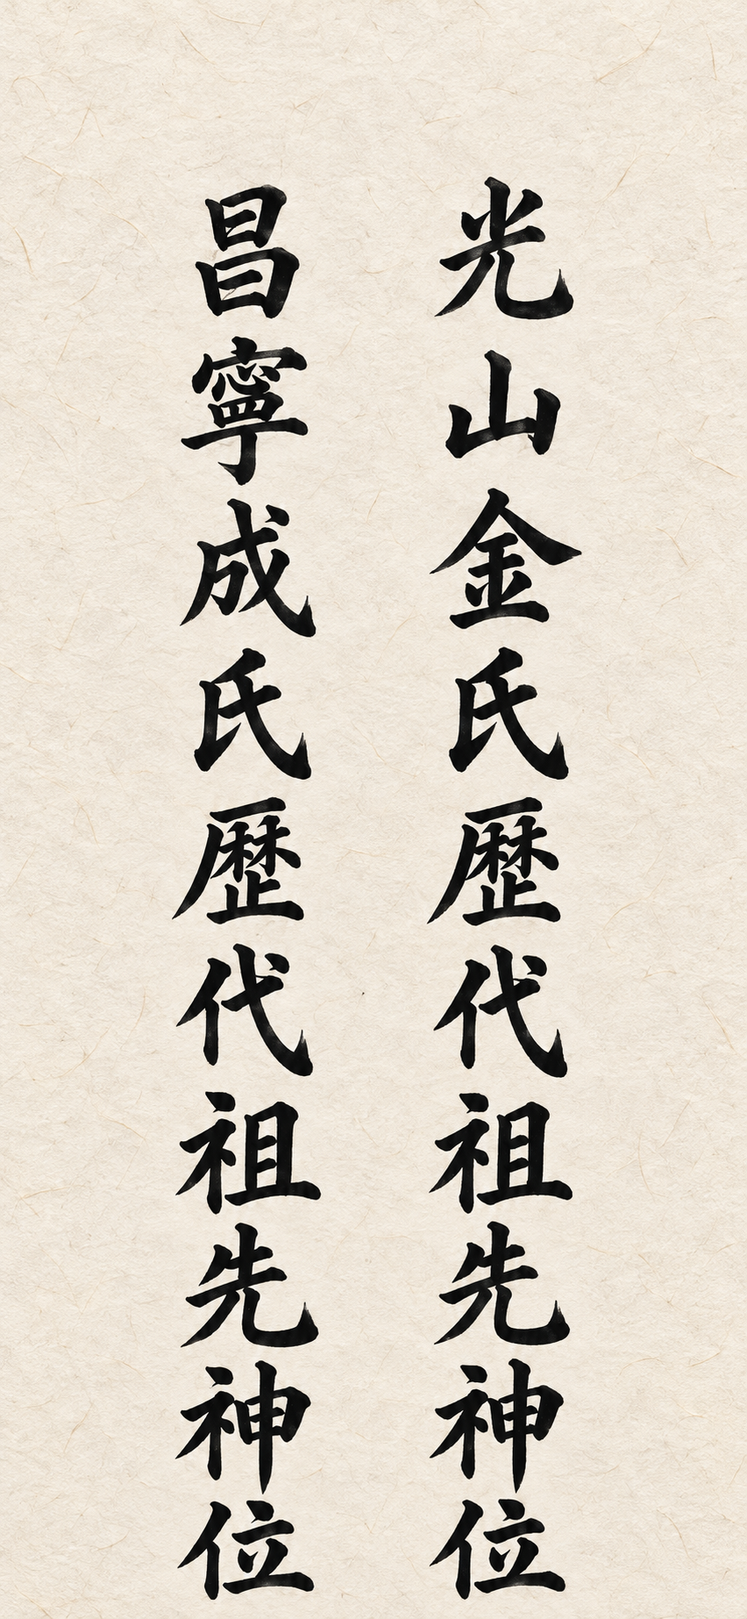
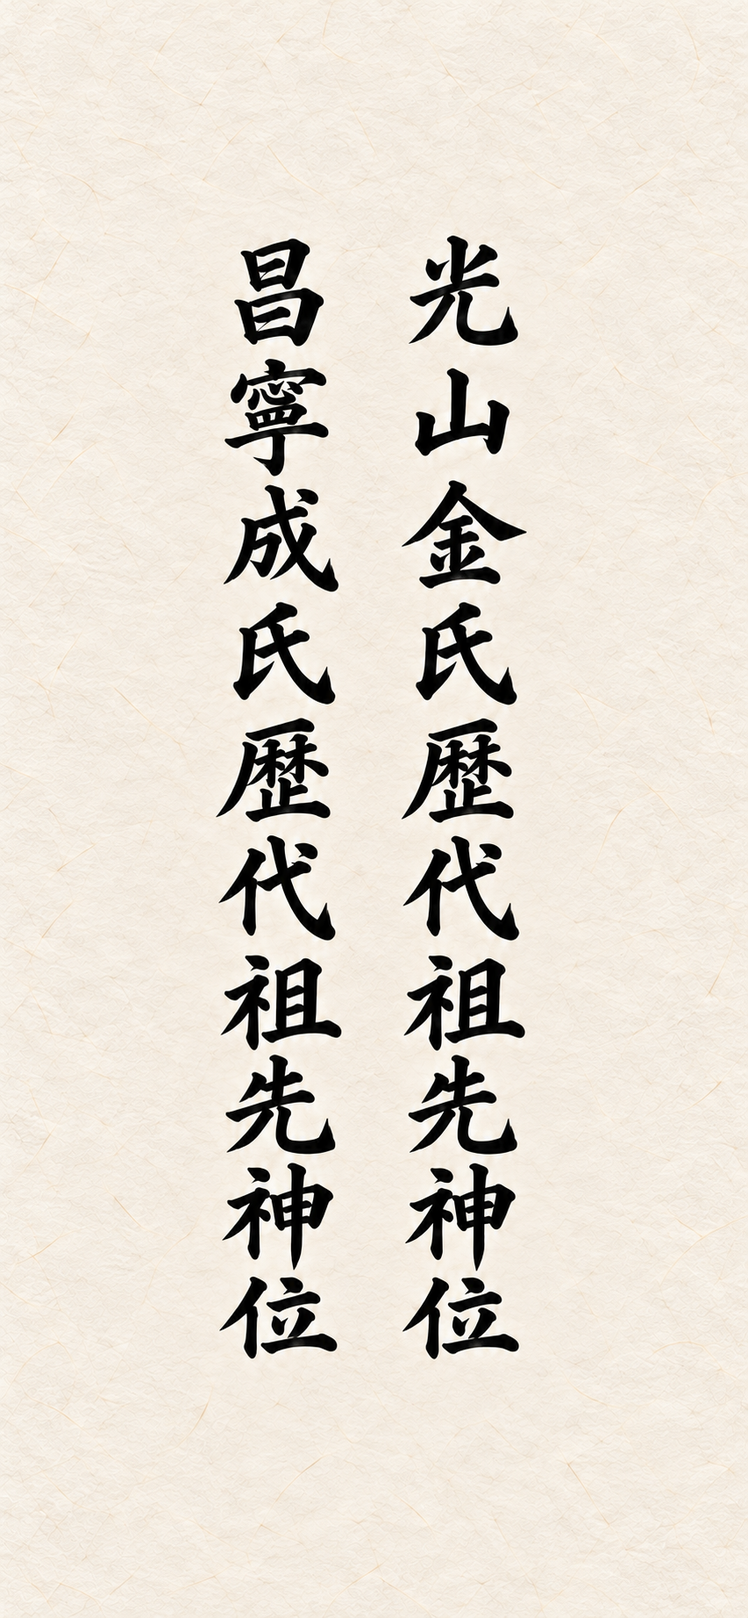
fix: use Hanmun prayer and align ancestral inscriptions

diff --git a/app.js b/app.js
@@ -702,19 +702,45 @@ const JUNGYANG_PRAYERS=[
   {id:'jungyang-prayer-ancestors',name:'제사 받지 못한 조상님까지 모시기'},
   {id:'jungyang-prayer-peace',name:'해원과 극락왕생을 빌기'}
 ];
-const JUNGYANG_CHUKMUN=`유 세차 [해의 간지]년 음력 구월 구일,
-후손 [봉행자 이름]은 중양을 맞아 아버지 집안 광산김씨와 어머니 집안 창녕성씨의 역대 선조 여러 영위께 삼가 고하나이다.
+const JUNGYANG_CELEBRANT='은호당 김형석';
+const JUNGYANG_CHUKMUN=`維歲次 [年干支] 九月九日
+奉行者 [奉行者] 敢昭告于
+光山金氏 昌寧成氏 歷代祖先列位之靈
 
-저희에게 삶을 이어 주신 은혜를 생각하며, 소박한 밥과 술과 나물을 정성껏 올립니다. 성함과 기일을 아는 조상님은 물론, 내력과 묘소를 알지 못하여 제사를 받지 못한 선망조상님들까지 함께 오시어 이 정성을 흠향하여 주시옵소서.
+歲序流遷 重陽復至
+追惟先德 感慕彌深
+仰念先世 血脈相承 以至于今
+恩深罔極 飮水思源 追遠報本 夙夜不忘
 
-맺힌 한과 서러운 마음은 풀어 놓으시고, 모든 선령께서 평안과 안식을 누리시기를 빕니다. 살아 있는 가족과 후손들 또한 서로 아끼고 바르게 살아가도록 굽어살펴 주시옵소서.
+謹具飯蔬清酌 用薦微誠
+凡姓名未詳 忌日失傳 墓所莫考
+久闕祭享之先靈 亦願同臨 共歆此奠
 
-두 집안의 모든 선령께 이 정성이 고루 닿기를 빌며 삼가 잔을 올리나이다.
-상향.`;
-function jungyangChukmunText(){
+伏願列位先靈 冤結悉解 永享安寧
+庇佑後昆 親族和睦 孝友相敦 正道是行
+惟願此誠 咸達列位
+謹以至誠 奉此薄奠 伏惟尙饗`;
+const JUNGYANG_CHUKMUN_TRANSLATION=`[해의 간지]년 음력 구월 구일, 봉행자 은호당 김형석은 광산김씨와 창녕성씨의 역대 조상님 모든 영위께 삼가 고합니다.
+
+세월이 흘러 중양을 다시 맞으니, 선조의 덕을 돌아보며 감사와 그리움이 더욱 깊어집니다. 선대에서 혈맥이 이어져 오늘에 이르렀으니 그 은혜는 깊고 끝이 없습니다. 물을 마시며 그 근원을 생각하듯, 먼 선조를 기리고 근본의 은혜를 갚는 마음을 밤낮으로 잊지 않습니다.
+
+삼가 밥과 나물과 술을 갖추어 작은 정성을 올립니다. 성함과 기일이 전해지지 않고 묘소를 알 수 없어 오랫동안 제사를 받지 못한 선령께서도 함께 오시어 이 제물을 흠향하여 주십시오.
+
+모든 선령의 맺힌 원한이 풀리고 길이 평안을 누리시기를 빕니다. 후손을 보살피시어 친족이 화목하고, 효도와 우애를 두텁게 하며 바른 길을 따르게 하여 주십시오. 이 정성이 모든 영위께 고루 닿기를 빌며, 지극한 정성으로 소박한 제물을 올리오니 삼가 흠향하여 주십시오.`;
+function jungyangYearGanji(hanja=false){
   const offset=LUNAR[idx][1]-4;
-  const ganji='갑을병정무기경신임계'[((offset%10)+10)%10]+'자축인묘진사오미신유술해'[((offset%12)+12)%12];
-  return JUNGYANG_CHUKMUN.replace('[해의 간지]',ganji);
+  const stems=hanja?'甲乙丙丁戊己庚辛壬癸':'갑을병정무기경신임계';
+  const branches=hanja?'子丑寅卯辰巳午未申酉戌亥':'자축인묘진사오미신유술해';
+  return stems[((offset%10)+10)%10]+branches[((offset%12)+12)%12];
+}
+function jungyangChukmunText(){
+  return JUNGYANG_CHUKMUN.replace('[年干支]',jungyangYearGanji(true)).replace('[奉行者]',JUNGYANG_CELEBRANT);
+}
+function jungyangChukmunTranslation(){
+  return JUNGYANG_CHUKMUN_TRANSLATION.replace('[해의 간지]',jungyangYearGanji());
+}
+function jungyangChukmunDownloadText(){
+  return jungyangChukmunText()+'\n\n우리말 해석\n\n'+jungyangChukmunTranslation()+'\n';
 }
 const BULSA_RICE_ID='bulsa-rice';
 function isFamilyFirstDay(){
@@ -795,22 +821,26 @@ function renderJungyangGuide(){
   prayer.querySelector('h2').after(guide);
   el.appendChild(prayer);
   const jibang=document.createElement('section');jibang.id='jungyang-jibang-card';jibang.className='card jungyang-guide-card';
-  jibang.innerHTML='<p class="section-label">광산김씨 · 창녕성씨</p><h2>두 집안 조상님을 모시는 지방</h2><div class="jungyang-jibang-layout"><a class="jungyang-jibang-preview" href="./jibang.html" target="_blank" rel="noopener noreferrer" aria-label="두 집안 지방을 세로로 열기"><img src="./assets/jungyang-jibang-s25-ultra.png" width="852" height="1846" loading="lazy" alt="오른쪽 광산김씨, 왼쪽 창녕성씨 역대 선조의 신위를 모시는 붓글씨 지방"></a><div class="jungyang-jibang-copy"><p>두 집안의 역대 조상을 함께 모시기 위해 작성한 합동 지방입니다. 닥종이 바탕에 오른쪽은 광산김씨, 왼쪽은 창녕성씨의 신위를 세로로 담았습니다.</p><p class="note">S25 울트라와 같은 6:13 세로 비율입니다. 세로로 열고 전체 화면을 눌러주세요.</p><div class="jungyang-actions"><a class="btn" href="./jibang.html" target="_blank" rel="noopener noreferrer">세로로 열기</a><a class="btn" href="./assets/jungyang-jibang-s25-ultra.png" download="중양-광산김씨-창녕성씨-지방.png">PNG 저장</a></div></div></div>';
+  jibang.innerHTML='<p class="section-label">광산김씨 · 창녕성씨</p><h2>두 집안 조상님을 모시는 지방</h2><div class="jungyang-jibang-layout"><a class="jungyang-jibang-preview" href="./jibang.html?v=20261020-aligned" target="_blank" rel="noopener noreferrer" aria-label="두 집안 지방을 세로로 열기"><img src="./assets/jungyang-jibang-s25-ultra.png?v=20261020-aligned" width="853" height="1844" loading="lazy" alt="오른쪽 광산김씨, 왼쪽 창녕성씨 역대 선조의 신위를 모시는 붓글씨 지방"></a><div class="jungyang-jibang-copy"><p>두 집안의 역대 조상을 함께 모시기 위해 작성한 합동 지방입니다. 닥종이 바탕에 오른쪽은 광산김씨, 왼쪽은 창녕성씨의 신위를 세로로 담았습니다.</p><p class="note">S25 울트라에서 세로로 열고 전체 화면을 눌러주세요.</p><div class="jungyang-actions"><a class="btn" href="./jibang.html?v=20261020-aligned" target="_blank" rel="noopener noreferrer">세로로 열기</a><a class="btn" href="./assets/jungyang-jibang-s25-ultra.png?v=20261020-aligned" download="중양-광산김씨-창녕성씨-지방.png">PNG 저장</a></div></div></div>';
   el.appendChild(jibang);
   const chukmun=document.createElement('section');chukmun.id='jungyang-chukmun-card';chukmun.className='card jungyang-guide-card';
   const chukmunLabel=document.createElement('p');chukmunLabel.className='section-label';chukmunLabel.textContent='두 집안 선조께 고하는 글';
   const chukmunHeading=document.createElement('h2');chukmunHeading.textContent='중양 축문';
-  const chukmunIntro=document.createElement('p');chukmunIntro.className='note';chukmunIntro.textContent='[봉행자 이름]을 채워 읽어주세요. 두 집안의 선조를 함께 모시기 위해 새로 쓴 합동 중양 축문입니다.';
-  const chukmunText=document.createElement('blockquote');chukmunText.id='jungyang-chukmun';chukmunText.className='jungyang-prayer';chukmunText.textContent=jungyangChukmunText();
+  const chukmunIntro=document.createElement('p');chukmunIntro.className='note';chukmunIntro.textContent='봉행 · 은호당 김형석';
+  const chukmunText=document.createElement('blockquote');chukmunText.id='jungyang-chukmun';chukmunText.className='jungyang-prayer jungyang-chukmun-hanmun';chukmunText.lang='lzh';chukmunText.textContent=jungyangChukmunText();
+  const translation=document.createElement('section');translation.className='jungyang-translation';
+  const translationHeading=document.createElement('h3');translationHeading.textContent='우리말 해석';
+  const translationText=document.createElement('p');translationText.id='jungyang-chukmun-translation';translationText.textContent=jungyangChukmunTranslation();
+  translation.append(translationHeading,translationText);
   const chukmunActions=document.createElement('div');chukmunActions.className='jungyang-actions';
   const download=document.createElement('button');download.type='button';download.className='btn';download.textContent='축문 저장';
   download.onclick=()=>{
-    const url=URL.createObjectURL(new Blob([jungyangChukmunText()+'\n'],{type:'text/plain;charset=utf-8'}));
+    const url=URL.createObjectURL(new Blob([jungyangChukmunDownloadText()],{type:'text/plain;charset=utf-8'}));
     const link=document.createElement('a');link.href=url;link.download='중양-광산김씨-창녕성씨-축문.txt';
     link.click();setTimeout(()=>URL.revokeObjectURL(url),0);
   };
   chukmunActions.appendChild(download);
-  chukmun.append(chukmunLabel,chukmunHeading,chukmunIntro,chukmunText,chukmunActions);el.appendChild(chukmun);
+  chukmun.append(chukmunLabel,chukmunHeading,chukmunIntro,chukmunText,translation,chukmunActions);el.appendChild(chukmun);
   const sources=document.createElement('section');sources.className='card jungyang-guide-card';
   sources.innerHTML='<p class="section-label">자료와 적용 범위</p><h2>참고한 글</h2><ul><li><a href="https://cafe.naver.com/f-e/cafes/11840628/articles/14197" target="_blank" rel="noopener noreferrer">중양절(음력 9월 9일)</a> · 스승니임ㅡ서울, 2023.07.31. 중양의 대상·취지와 세시풍속 참고.</li><li><a href="https://cafe.naver.com/f-e/cafes/11840628/articles/28564" target="_blank" rel="noopener noreferrer">무명조상 해원경</a> · 스승니임ㅡ서울, 2026.10.03. 작성자가 만든 중양 경문으로, 제수와 해원 발원의 취지 참고.</li></ul><p class="note">카페 글은 로그인·회원 자격이 필요할 수 있습니다. 기본 수량은 은호당의 결정이고, 국화 음식과 간소 진행안은 자료의 취지를 참고했습니다. 지방과 축문은 두 집안을 함께 모시려는 요청에 맞춰 새로 정리했습니다. 중양 상의 체크는 다른 달·초하루 기록과 따로 저장합니다.</p>';
   el.appendChild(sources);

diff --git a/jibang.html b/jibang.html
@@ -24,13 +24,13 @@
 </head>
 <body>
   <main aria-label="두 집안 역대 조상님을 함께 모시는 지방">
-    <img id="jibang" src="./assets/jungyang-jibang-s25-ultra.png" alt="닥종이 바탕의 붓글씨 합동지방. 오른쪽 광산김씨 역대 조상님의 신위(光山金氏歷代祖先神位), 왼쪽 창녕성씨 역대 조상님의 신위(昌寧成氏歷代祖先神位).">
+    <img id="jibang" src="./assets/jungyang-jibang-s25-ultra.png?v=20261020-aligned" alt="닥종이 바탕의 붓글씨 합동지방. 오른쪽 광산김씨 역대 조상님의 신위(光山金氏歷代祖先神位), 왼쪽 창녕성씨 역대 조상님의 신위(昌寧成氏歷代祖先神位).">
   </main>
   <section id="controls" aria-label="지방 화면 설정">
     <p>휴대전화를 세로로 두고 전체 화면을 누르세요. 화면을 터치하면 설정을 다시 열 수 있습니다.</p>
     <div class="actions">
       <button id="fullscreen" type="button">전체 화면</button>
-      <a href="./assets/jungyang-jibang-s25-ultra.png" download="광산김씨-창녕성씨-합동지방.png">PNG 저장</a>
+      <a href="./assets/jungyang-jibang-s25-ultra.png?v=20261020-aligned" download="광산김씨-창녕성씨-합동지방.png">PNG 저장</a>
       <button id="hide-controls" type="button">설정 숨기기</button>
     </div>
     <p id="status" role="status" hidden></p>

diff --git a/styles.css b/styles.css
@@ -354,6 +354,10 @@ h1{font-size:40px;font-weight:650;letter-spacing:-.045em;line-height:1.3;margin:
 .jungyang-guide-card li+li{margin-top:12px}
 .jungyang-guide-card a{display:inline-block;min-height:40px;padding:6px 0;color:var(--brass-deep);text-underline-offset:4px}
 .jungyang-prayer{margin:18px 0 0;padding:16px 18px;border-left:2px solid var(--brass);background:var(--brass-veil);font-family:"Gowun Batang",serif;font-size:16px;line-height:1.9;white-space:pre-line}
+.jungyang-chukmun-hanmun{font-family:"Noto Serif CJK KR","Noto Serif KR","Gowun Batang",serif;font-size:19px;line-height:2;letter-spacing:.04em;word-break:normal;overflow-wrap:anywhere}
+.jungyang-translation{margin-top:20px;color:var(--ink-2)}
+.jungyang-translation h3{margin:0 0 8px;font-size:13px;font-weight:600}
+.jungyang-guide-card .jungyang-translation p{margin:0;font-size:13px;line-height:1.85;white-space:pre-line}
 .jungyang-jibang-layout{display:flex;align-items:center;flex-wrap:wrap;gap:24px;margin-top:18px}
 .jungyang-guide-card .jungyang-jibang-preview{display:block;flex:0 0 144px;width:144px;padding:0;border:1px solid var(--line);border-radius:var(--r);overflow:hidden;background:var(--hanji)}
 .jungyang-jibang-preview img{display:block;width:100%;height:auto}

diff --git a/tests/browser_test.py b/tests/browser_test.py
@@ -953,11 +953,18 @@ class BrowserRegression(unittest.TestCase):
                 expect(page.locator("#jungyang-guide")).to_contain_text("국화전")
                 expect(page.locator("#jungyang-guide")).to_contain_text("전승된 고정 의식 순서는 아닙니다")
                 expect(page.locator('#jungyang-guide a[href^="https://cafe.naver.com/"]')).to_have_count(2)
-                expect(page.locator("#jungyang-jibang-card img")).to_have_attribute("src", "./assets/jungyang-jibang-s25-ultra.png")
-                expect(page.locator("#jungyang-chukmun")).to_contain_text("유 세차 병오년")
-                expect(page.locator("#jungyang-chukmun")).to_contain_text("광산김씨")
-                expect(page.locator("#jungyang-chukmun")).to_contain_text("창녕성씨")
-                expect(page.locator("#jungyang-chukmun")).to_contain_text("[봉행자 이름]")
+                expect(page.locator("#jungyang-jibang-card img")).to_have_attribute("src", "./assets/jungyang-jibang-s25-ultra.png?v=20261020-aligned")
+                expect(page.locator("#jungyang-chukmun")).to_contain_text("維歲次 丙午 九月九日")
+                expect(page.locator("#jungyang-chukmun")).to_contain_text("光山金氏 昌寧成氏")
+                expect(page.locator("#jungyang-chukmun")).to_contain_text("奉行者 은호당 김형석")
+                expect(page.locator("#jungyang-chukmun-card")).not_to_contain_text("[봉행자 이름]")
+                translation = page.locator("#jungyang-chukmun-translation")
+                expect(translation).to_contain_text("병오년 음력 구월 구일, 봉행자 은호당 김형석")
+                expect(translation).to_contain_text("광산김씨와 창녕성씨")
+                sizes = page.evaluate("""() => [document.querySelector('#jungyang-chukmun'),
+                  document.querySelector('#jungyang-chukmun-translation')].map(el => parseFloat(getComputedStyle(el).fontSize))""")
+                self.assertLess(sizes[1], sizes[0])
+                self.assertTrue(page.locator("#jungyang-chukmun").evaluate("el => !!(el.compareDocumentPosition(document.querySelector('#jungyang-chukmun-translation')) & Node.DOCUMENT_POSITION_FOLLOWING)"))
                 self.assertEqual(page.evaluate("nameOfKey('part/jungyang-rice-offering-geollip')"), "건립 밥공양 · 재료")
                 for button in page.locator("#jungyang-prep button, #offering-prep button, #jungyang-guide button").all():
                     bounds = button.bounding_box()
@@ -969,15 +976,18 @@ class BrowserRegression(unittest.TestCase):
         self.login(page)
         self.select_month(page, 9, year=2027)
         page.locator('#eventnav [data-event="jungyang"]').click()
-        expect(page.locator("#jungyang-chukmun")).to_contain_text("유 세차 정미년")
+        expect(page.locator("#jungyang-chukmun")).to_contain_text("維歲次 丁未 九月九日")
         prayer = page.locator("#jungyang-chukmun").inner_text()
+        translation = page.locator("#jungyang-chukmun-translation").inner_text()
+        self.assertTrue(translation.startswith("정미년"))
         with page.expect_download() as saved_prayer:
             page.get_by_role("button", name="축문 저장", exact=True).click()
-        self.assertEqual(Path(saved_prayer.value.path()).read_text(encoding="utf-8"), prayer + "\n")
+        self.assertEqual(Path(saved_prayer.value.path()).read_text(encoding="utf-8"),
+                         prayer + "\n\n우리말 해석\n\n" + translation + "\n")
         image = page.locator("#jungyang-jibang-card img")
         image.scroll_into_view_if_needed()
         page.wait_for_function("document.querySelector('#jungyang-jibang-card img').naturalWidth > 0")
-        self.assertEqual(image.evaluate("img => [img.naturalWidth, img.naturalHeight]"), [852, 1846])
+        self.assertEqual(image.evaluate("img => [img.naturalWidth, img.naturalHeight]"), [853, 1844])
         with page.expect_download() as saved_image:
             page.locator("#jungyang-jibang-card a[download]").click()
         self.assertEqual(Path(saved_image.value.path()).read_bytes(),
@@ -988,7 +998,7 @@ class BrowserRegression(unittest.TestCase):
         expect(viewer.locator("#jibang")).to_be_visible()
         self.assert_no_overflow(viewer)
         dimensions = viewer.locator("#jibang").evaluate("img => ({w:img.clientWidth,h:img.clientHeight,nw:img.naturalWidth,nh:img.naturalHeight})")
-        self.assertEqual(dimensions, {"w": 480, "h": 1040, "nw": 852, "nh": 1846})
+        self.assertEqual(dimensions, {"w": 480, "h": 1040, "nw": 853, "nh": 1844})
         viewer.get_by_role("button", name="전체 화면", exact=True).click()
         viewer.wait_for_function("!!document.fullscreenElement")
         expect(viewer.locator("#controls")).to_be_hidden()

diff --git a/docs/domain-sangbogi.md b/docs/domain-sangbogi.md
@@ -153,7 +153,7 @@
 
 - 대상은 아버지 집안 광산김씨와 어머니 집안 창녕성씨의 역대 조상님입니다. 부모님의 생사·관직·세대를 가정한 개인 지방으로 쓰지 않습니다. 두 집안을 함께 모시기 위해 새로 작성한 합동지방이며 특정 문중의 전승 양식이라고 안내하지 않습니다.
 - 보는 사람 기준 오른쪽 세로줄은 `光山金氏歷代祖先神位`, 왼쪽은 `昌寧成氏歷代祖先神位`입니다. 닥종이 바탕 붓글씨 PNG `assets/jungyang-jibang-s25-ultra.png`로 제공합니다.
-- 실제 PNG는 852×1846(6:13)으로 Galaxy S25 Ultra 1440×3120 화면과 비율이 같습니다. 페이지의 PNG 저장과 `jibang.html`의 전체 화면 보기에서 비율을 유지합니다. 전체 화면을 지원하지 않으면 PNG를 저장해 갤러리에서 여는 방법을 안내합니다.
-- 축문은 ‘유 세차’로 시작하고 광산김씨·창녕성씨 두 집안의 성함·기일·내력을 아는 선조와 제사를 받지 못한 선망조상까지 함께 모셔 정성을 고하는 새 합동 중양 문안입니다. 전승 경문을 인용했다고 하지 않습니다.
-- 선택한 음력 연도의 간지(2026년 병오, 2027년 정미)를 본문에 자동 반영합니다. `[봉행자 이름]`만 채워 읽고, 검증되지 않은 삭간지·일진은 넣지 않습니다. 국화 음식은 선택이므로 축문에서 이미 올렸다고 단정하지 않습니다.
-- 축문 전체를 가족 중양 페이지에서 읽고 현재 본문을 UTF-8 TXT로 저장할 수 있습니다. 지방·축문 다운로드는 기존 사용자 기록에 쓰기 요청을 만들지 않습니다.
+- 실제 PNG는 853×1844(약 6:13)의 세로 이미지로 Galaxy S25 Ultra에서 비율을 유지해 표시합니다. 페이지의 PNG 저장과 `jibang.html`의 전체 화면 보기에서 비율을 유지합니다. 전체 화면을 지원하지 않으면 PNG를 저장해 갤러리에서 여는 방법을 안내합니다.
+- 축문은 ‘維歲次’로 시작하는 한문으로 광산김씨·창녕성씨 두 집안의 성함·기일·내력을 아는 선조와 제사를 받지 못한 선망조상까지 함께 모셔 정성을 고하는 새 합동 중양 문안입니다. 전승 경문을 인용했다고 하지 않습니다. 봉행자는 사용자 요청대로 **은호당 김형석**으로 고정합니다. 성함 한자는 확인 전까지 추정하지 않고 한글 이름을 그대로 씁니다.
+- 선택한 음력 연도의 간지(2026년 丙午/병오, 2027년 丁未/정미)를 한문과 해석에 자동 반영하며 이름 빈칸은 두지 않습니다. 검증되지 않은 삭간지·일진은 넣지 않습니다. 국화 음식은 선택이므로 축문에서 이미 올렸다고 단정하지 않습니다.
+- 가족 중양 페이지에 한문 축문 전체와 아래 13px 우리말 해석을 함께 표시하고, 현재 한문·해석을 모두 UTF-8 TXT로 저장할 수 있습니다. 지방·축문 다운로드는 기존 사용자 기록에 쓰기 요청을 만들지 않습니다.

diff --git a/docs/HISTORY.md b/docs/HISTORY.md
@@ -1,5 +1,14 @@
 # 작업 이력 (HISTORY)
 
+## 2026-10-20 · 한문 축문·봉행자 고정과 지방 정렬 보완
+
+- **요청·축문**: 기존 한글 축문을 `維歲次 丙午 九月九日`로 시작하는 한문 본문으로 교체. 봉행자를 `은호당 김형석`으로 고정하여 이름 빈칸을 제거. 성명 한자 표기는 비동기로 확인 요청했으며 답변 전에는 사용자에게 받은 이름을 그대로 사용하고 한자를 추정하지 않음. 대상은 광산김씨·창녕성씨 역대 선조의 여러 영위로 유지하며 개인 조상의 세대·관직·생사는 가정하지 않음.
+- **해석·저장**: 한문 본문19px 아래에 우리말 해석13px을 별도로 표시. 본문은 `lang=lzh`로 표시하며 한문 연간지(2026丙午·2027丁未)와 해석의 병오·정미를 함께 반영. TXT는 현재 한문과 우리말 해석을 모두 포함. 이름·날짜의 입력칸이나 새 원격 저장은 추가하지 않음.
+- **지방 정렬**: 기존 파일을 체크아웃 밖에 보관한 뒤 `image_gen`으로 두 열의 중심·대응 글자 높이·행간과 위아래 여백을 보완. 마지막 `位`가 아래에 붙던 문제를 해소하고 오른쪽 `光山金氏歷代祖先神位`, 왼쪽 `昌寧成氏歷代祖先神位`의20글자를 확인. 실제 최종 PNG853×1844, 약6:13이며 `object-fit:contain`으로 전체 표시. 생성 원본도 별도 보존.
+- **새 이미지 반영**: 미리보기·뷰어·PNG 저장 URL에 `v=20261020-aligned`를 붙여 이전 이미지가 캐시에 남는 문제를 방지. HTML 크기 속성과 문서도 새 실제 이미지 크기로 갱신.
+- **검증**: `python3 tests/browser_test.py` 전체30개 통과(52.658초). `node tests/domain_test.cjs`·`node --check app.js`·`git diff --check` 통과. 320/390/1440px에서 한문과 고정 봉행자·해석의 위치/작은 글씨·한문/한글 연도 연동·TXT 전문·새 PNG 다운로드 일치·전체 화면과 미지원 대안 확인. 390px 별도 캡처로 한자 표시와 해석을 시각 확인했으며 이 확인의 쓰기 요청0건. 모든 기능 검증은 합성 응답을 사용하고 실제 Supabase 사용자 기록은 수정하지 않음.
+- **문서·배포**: 도메인·제품/기술/구조 지침·README·CHANGELOG를 갱신. 기존 배포 요청에 따라 검증본을 `main`에 정상 반영하고 대상 커밋의 Pages 배포 결과를 확인하는 흐름을 사용.
+
 ## 2026-10-20 · 국화 안내 통합과 두 집안 합동지방·축문
 
 - **요청·안내**: 중양의 ‘조금 더 갖추면 좋은 것’ 정화수·향/촛불·제철과일 체크3개를 화면에서 제거. 국화 안내에 합쳐, 더 올린다면 국화주 한 잔(기본 술 대체)이나 국화전 작은 접시 정도를 선택하도록 정리. 조상상·신령님 공양의 기본7항목과 진행안3항목은 유지.

diff --git a/.kiro/steering/tech.md b/.kiro/steering/tech.md
@@ -46,6 +46,7 @@ GitHub Pages 저장소는 `leftdrawer/calends_prep`, 배포 소스는 `main` 루
 
 - 중양 기본 준비 7항목·진행안 3개는 기존 명절 키의 `cycle.part`에 `jungyang-*` 이름으로 저장합니다. 새 테이블·실데이터 이관·로그인 변경은 없으며, 기본 7항목만 별도 집계하고 완료는 `done:jungyang`에 기록합니다.
 - 제거한 권장 체크 `jungyang-water/light/fruit`는 저장된 값을 지우거나 다른 항목으로 옮기지 않습니다. `JUNGYANG_LEGACY_LABELS`로 과거 이력 이름을 유지합니다.
-- 합동지방은 image_gen으로 제작한 정적 PNG `assets/jungyang-jibang-s25-ultra.png`입니다. 실제 크기는 852×1846, 비율은 6:13으로 S25 울트라 1440×3120 화면과 같으며 원본 픽셀 수는 구분합니다. PNG·`jibang.html`을 HTML·JS·CSS와 함께 배포합니다. 새 이미지 라이브러리나 외부 런타임 의존성은 없습니다.
+- 합동지방은 image_gen으로 제작한 정적 PNG `assets/jungyang-jibang-s25-ultra.png`입니다. 실제 크기는 853×1844, 약 6:13의 세로 비율로 S25 울트라에서 비율을 유지해 표시합니다. PNG·`jibang.html`을 HTML·JS·CSS와 함께 배포합니다. 새 이미지 라이브러리나 외부 런타임 의존성은 없습니다.
 - `jibang.html`은 사용자 버튼 동작으로 Fullscreen API를 요청하고 `object-fit:contain`을 유지합니다. 설정 숨기기·다시 열기, 미지원 시 PNG 저장 안내가 있습니다.
-- 축문은 선택한 음력 연도에서 표준 60갑자의 연간지를 구해 넣으며, 검증되지 않은 삭간지·일진을 임의로 추가하지 않습니다. `[봉행자 이름]`은 사용자가 채울 자리입니다. TXT는 현재 본문으로 로컬 Blob을 만들어 내려받고 서버에 저장하지 않습니다.
+- 축문은 `維歲次 丙午 九月九日`과 같이 한문으로 표시하고 봉행자 `은호당 김형석`을 고정합니다. 성함 한자는 확인 전까지 추정하지 않고 요청한 한글 이름을 유지합니다. 선택 음력 연도의 표준 60갑자 연간지를 한문과 우리말 해석에 연동하며(2026년 丙午/병오, 2027년 丁未/정미), 검증되지 않은 삭간지·일진을 임의로 추가하지 않습니다.
+- 한문 본문은 `lang="lzh"`, 아래 우리말 해석은 13px로 표시합니다. TXT는 현재 한문·우리말 해석 전체로 로컬 Blob을 만들어 내려받고 서버에 저장하지 않습니다.

diff --git a/.kiro/steering/structure.md b/.kiro/steering/structure.md
@@ -57,7 +57,8 @@
 
 - `isJungyang`, `JUNGYANG_ANCESTOR`, `JUNGYANG_OFFERINGS`, `JUNGYANG_PRAYERS`, `renderJungyang`, `renderJungyangGuide`: 가족 전용 기본 7항목·진행안 3개와 국화 음식 선택 안내. `index.html`의 `jungyang-prep`·`jungyang-guide` 슬롯을 사용하고 `renderOfferings`가 중양 전용 네 공양 체크를 표시합니다.
 - `JUNGYANG_LEGACY_LABELS`: 제거한 정화수·향과 촛불·과일 권장 체크의 과거 이력 이름을 `partLabelOf`에서 유지합니다. 새 체크 UI는 생성하지 않습니다.
-- `JUNGYANG_CHUKMUN`, `jungyangChukmunText`: 두 집안을 함께 모시는 새 축문과 선택 음력 연도의 간지 치환. `jungyang-chukmun`에 텍스트로 표시하고 Blob으로 현재 본문의 TXT 다운로드를 만듭니다.
-- `renderJungyangGuide`의 `jungyang-jibang-card`: 합동지방 PNG 미리보기·저장과 `jibang.html` 링크. `jungyang-chukmun-card`는 축문과 저장 버튼입니다. 다른 행사·손님 화면에서는 안내 슬롯을 비웁니다.
+- `JUNGYANG_CELEBRANT`, `JUNGYANG_CHUKMUN`, `JUNGYANG_CHUKMUN_TRANSLATION`: 봉행자 은호당 김형석과 두 집안을 함께 모시는 한문 축문·우리말 해석입니다. 성함 한자는 확인 전까지 요청한 한글 표기를 유지합니다.
+- `jungyangYearGanji`, `jungyangChukmunText`, `jungyangChukmunTranslation`, `jungyangChukmunDownloadText`: 선택 음력 연도의 한문·한글 간지를 각 본문에 치환하고, 두 본문을 모두 담은 TXT를 만듭니다. `jungyang-chukmun`에는 `lang="lzh"` 한문 본문, `jungyang-chukmun-translation`에는 13px 우리말 해석을 텍스트로 표시합니다.
+- `renderJungyangGuide`의 `jungyang-jibang-card`: 합동지방 PNG 미리보기·저장과 `jibang.html` 링크. `jungyang-chukmun-card`는 한문 축문·해석과 Blob TXT 저장 버튼입니다. 다른 행사·손님 화면에서는 안내 슬롯을 비웁니다.
 - `jibang.html`은 원본 이미지의 비율을 유지하는 `object-fit:contain`으로 표시합니다. Fullscreen API 호출 후 설정을 숨기고 이미지 터치로 다시 열며, 미지원·실패 시 PNG 저장 대안을 안내합니다.
 - 중양은 configured 상태지만 초하루 장보기·진설·6단계·18개 진척은 숨기고 DOM을 비웁니다. 완료·예물 기능은 유지합니다.

diff --git a/.kiro/steering/product.md b/.kiro/steering/product.md
@@ -20,7 +20,7 @@
 - 초하루가 끝나도 그 달 명절이 남아 있을 수 있으므로 다른 달로 자동 이동하지 않습니다.
 - 기존 한 달 한 벌 데이터는 초하루 기록으로 유지합니다. 특히 기존 9월 자료는 구월 초하루에 표시합니다.
 - 중양에는 조상상 밥 한 공기·술 한 잔·나물 세 종류, 소당·중당·육당·건립 밥 한 공기씩을 올립니다. 좁은 신당에 맞춘 기본 차림(밥 총 다섯 공기) 7항목과 간소 해원 진행안 3개를 구분합니다. 권장 덧차림 체크는 없애고 더 올린다면 국화주나 국화전이면 좋다는 선택 안내로 합쳤으며, 초하루·추석 품목을 복사하지 않습니다.
-- 중양 가족 화면에 아버지 집안 광산김씨·어머니 집안 창녕성씨의 역대 조상님을 모시는 합동지방과 ‘유 세차’로 시작하는 합동 축문을 제공합니다. 지방은 닥종이 바탕의 붓글씨 PNG·세로 전체 화면 보기, 축문은 선택한 음력 연도의 간지와 이름 빈칸·TXT 저장을 지원합니다. 둘 다 요청에 맞춰 작성한 것으로 전승된 고정 양식이라고 안내하지 않습니다.
+- 중양 가족 화면에 아버지 집안 광산김씨·어머니 집안 창녕성씨의 역대 조상님을 모시는 합동지방과 ‘維歲次’로 시작하는 한문 축문을 제공합니다. 지방은 닥종이 바탕의 붓글씨 PNG·세로 전체 화면 보기, 축문은 봉행자 은호당 김형석·선택 음력 연도의 간지·13px 우리말 해석·한문과 해석을 담은 TXT 저장을 지원합니다. 성함 한자는 확인 전까지 추정하지 않고 한글 이름을 씁니다. 둘 다 요청에 맞춰 작성한 것으로 전승된 고정 양식이라고 안내하지 않습니다.
 - 정규 음력 10월 상달 초하루에는 불사단지의 쌀을 교체합니다. 가족 전용 별도 체크로 관리하며 다른 행사·연도의 기록과 분리합니다.
 - 모든 초하루(윤달 포함)에 소당·중당·육당·건립 밥공양을 별도로 체크합니다. 각 자리 한 공기 안내와 진설 표시가 연결되며 손님에게는 보이지 않습니다.
 

diff --git a/docs/IMPROVEMENTS.md b/docs/IMPROVEMENTS.md
@@ -6,4 +6,4 @@
 2. **월별 일정 한눈에 보기**: 초하루와 그 달 명절을 월 달력에 함께 보여주고, 준비할 상으로 바로 이동할 수 있게 하면 다음/지난 달을 여러 번 넘기는 수고를 줄일 수 있습니다.
 3. **기록 내보내기**: 월별 예물·준비 기록을 JSON/CSV로 내려받아 보관하면 Supabase와 별도로 백업하고 연말 기여 기록을 정리하기 편합니다.
 
-명절별 품목과 절차는 사용자 규칙이 정해진 후에만 추가합니다. 중양은 2026-10-20 확정된 은호당 간소 차림을 사용하고, 권장 체크 3개를 국화주·국화전 선택 안내로 합쳤습니다. 두 집안 합동지방의 PNG 저장·전체 화면 보기와 합동 축문의 TXT 저장도 제공합니다. 위 3번의 월별 준비 기록 내보내기는 별도 미구현 제안입니다. 나머지 미정 명절은 그대로 둡니다.
+명절별 품목과 절차는 사용자 규칙이 정해진 후에만 추가합니다. 중양은 2026-10-20 확정된 은호당 간소 차림을 사용하고, 권장 체크 3개를 국화주·국화전 선택 안내로 합쳤습니다. 두 집안 합동지방의 PNG 저장·전체 화면 보기와 은호당 김형석이 봉행하는 한문 축문·우리말 해석의 TXT 저장도 제공합니다. 위 3번의 월별 준비 기록 내보내기는 별도 미구현 제안입니다. 나머지 미정 명절은 그대로 둡니다.

diff --git a/CHANGELOG.md b/CHANGELOG.md
@@ -1,5 +1,11 @@
 # 은호당 상차림 변경 이력
 
+## 2026-10-20 — 한문 축문과 지방 정렬
+
+- 축문을 한문으로 바꾸고 봉행자를 ‘은호당 김형석’으로 고정. 본문 아래 작은 우리말 해석을 붙이고 TXT에도 함께 저장.
+- 지방 두 열과 각 행의 글자 높이·간격, 위아래 여백을 보완. 새 이미지가 표시되도록 주소 버전 갱신.
+- 브라우저 검사30개·도메인 검사 통과. 모바일 한자·해석 표시를 별도 확인하고 기존 사용자 기록 보존.
+
 ## 2026-10-20 — 중양 국화 안내와 합동지방·축문
 
 - 권장 체크3개를 제거하고, 더 올린다면 국화주나 국화전 정도를 선택하는 안내로 통합.
